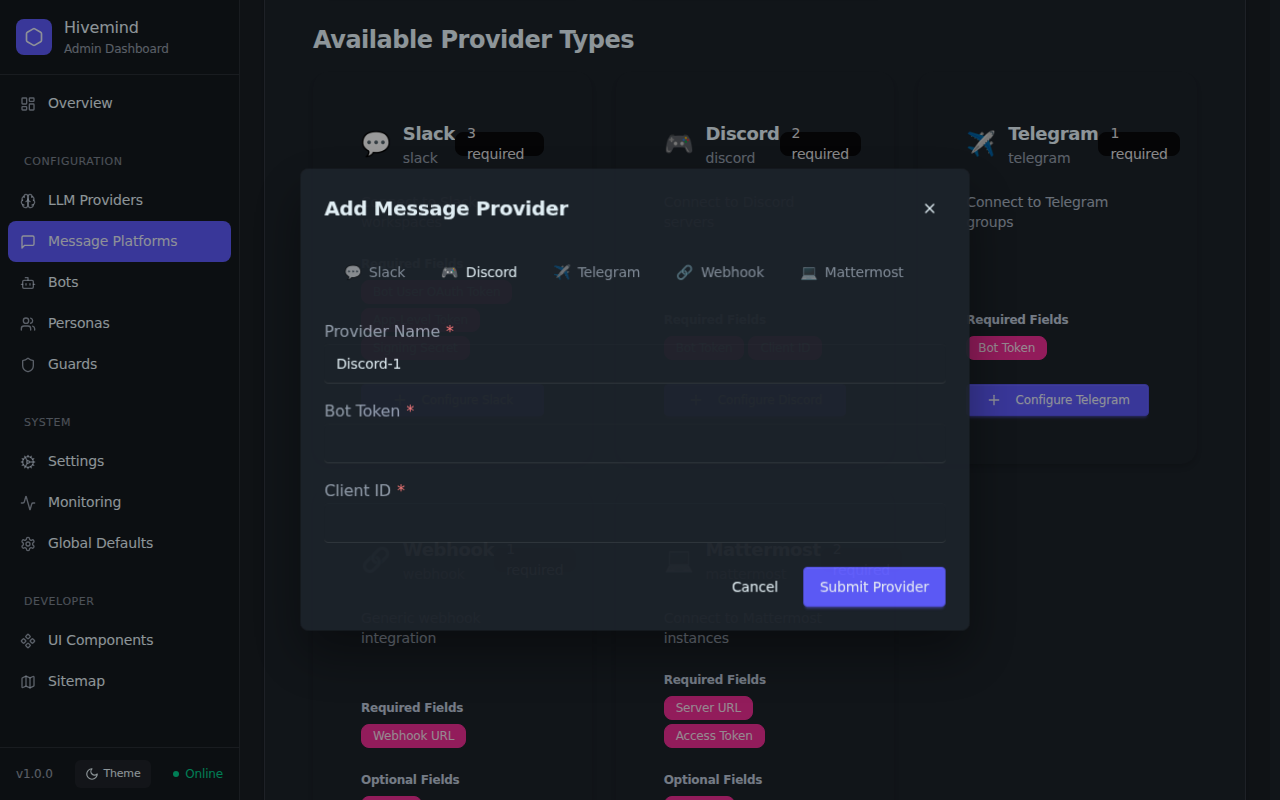
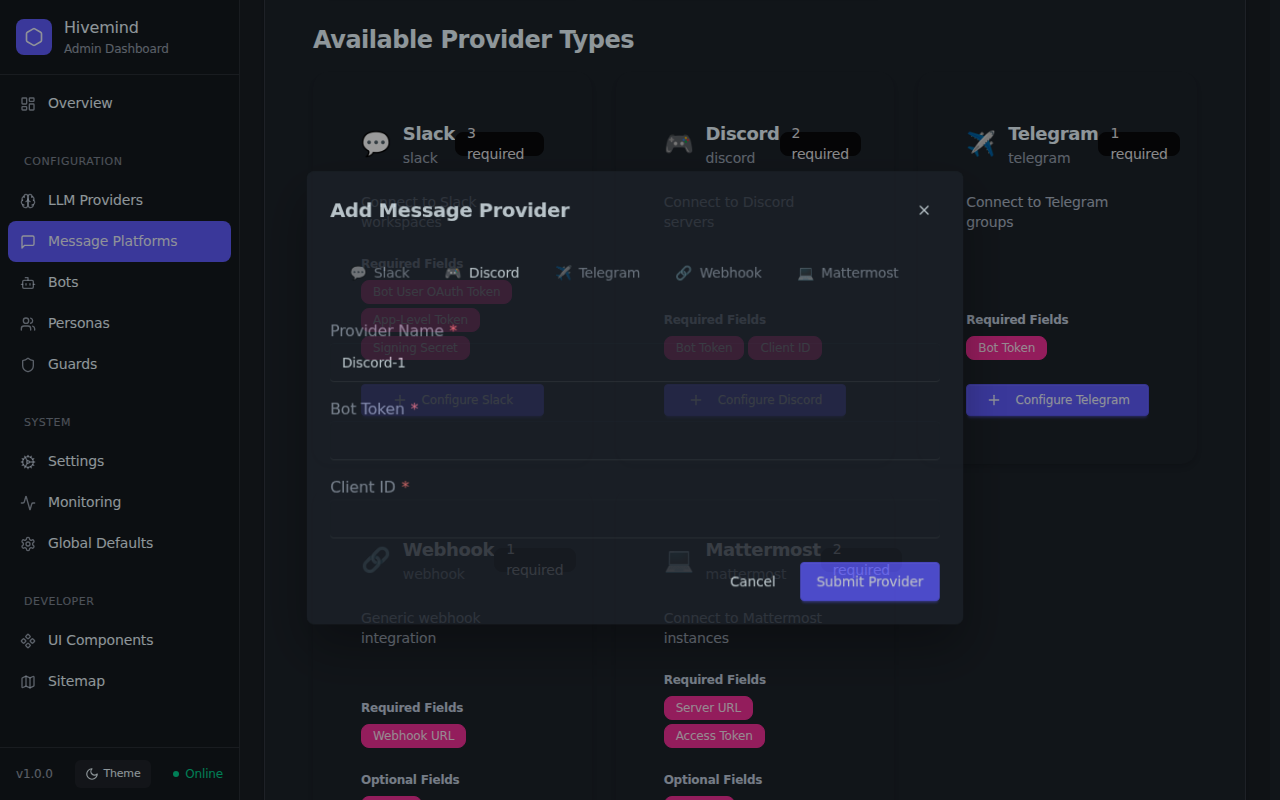
Refiner (Webhook Routes UX): Add missing webhook schema and fix provider modal layout (#916)
* fix(webhook): Fix tab overlapping in provider config modal and add Webhook provider schema

* feat(webhook): add HTTPS URL validation with improved error messages

- Add pattern validation to webhook URL field (must start with https://)
- Improve description to indicate HTTPS requirement
- Add specific error message for URL validation failures

---------

diff --git a/src/client/src/provider-configs/index.ts b/src/client/src/provider-configs/index.ts
@@ -9,6 +9,7 @@ export * from './schemas/telegram';
 export * from './schemas/mcp';
 export * from './schemas/flowise';
 export * from './schemas/openwebui';
+export * from './schemas/webhook';
 
 // Registry of all available provider schemas
 import type { ProviderConfigSchema } from './types';
@@ -21,12 +22,14 @@ import { telegramProviderSchema } from './schemas/telegram';
 import { mcpProviderSchema } from './schemas/mcp';
 import { flowiseProviderSchema } from './schemas/flowise';
 import { openWebUIProviderSchema } from './schemas/openwebui';
+import { webhookProviderSchema } from './schemas/webhook';
 
 export const PROVIDER_SCHEMAS: Record<string, ProviderConfigSchema> = {
   // Message providers
   discord: discordProviderSchema,
   slack: slackProviderSchema,
   telegram: telegramProviderSchema,
+  webhook: webhookProviderSchema,
 
   // LLM providers
   openai: openAIProviderSchema,

diff --git a/src/client/src/provider-configs/schemas/webhook.ts b/src/client/src/provider-configs/schemas/webhook.ts
@@ -1,0 +1,32 @@
+import type { ProviderConfigSchema } from '../types';
+
+export const webhookProviderSchema: ProviderConfigSchema = {
+  type: 'message',
+  providerType: 'webhook',
+  displayName: 'Webhook',
+  description: 'Generic webhook integration',
+  icon: '🔗',
+  color: '#808080',
+  defaultConfig: {},
+  fields: [
+    {
+      name: 'url',
+      label: 'Webhook URL',
+      type: 'url',
+      required: true,
+      description: 'Webhook URL for receiving updates (must start with https:// for security)',
+      placeholder: 'https://your-domain.com/api/webhook',
+      validation: {
+        pattern: '^https://[^\\s]+',
+      },
+    },
+    {
+      name: 'secret',
+      label: 'Secret',
+      type: 'password',
+      required: false,
+      description: 'Secret for authenticating webhook requests',
+      placeholder: 'Your webhook secret',
+    }
+  ],
+};

diff --git a/src/client/src/components/ProviderConfiguration/ProviderConfigModal.tsx b/src/client/src/components/ProviderConfiguration/ProviderConfigModal.tsx
@@ -124,6 +124,10 @@ const ProviderConfigModal: React.FC<ProviderConfigModalProps> = ({
       if (pattern && typeof value === 'string') {
         const regex = new RegExp(pattern);
         if (!regex.test(value)) {
+          // Provide specific error messages for common field types
+          if (field.type === 'url') {
+            return `${field.label} must be a valid HTTPS URL`;
+          }
           return `${field.label} format is invalid`;
         }
       }
@@ -353,7 +357,7 @@ const ProviderConfigModal: React.FC<ProviderConfigModalProps> = ({
         </div>
 
         {/* Provider Type Tabs */}
-        <div className="tabs tabs-boxed mb-6">
+        <div className="tabs tabs-boxed mb-6 flex-wrap gap-1">
           {providerTypes.map(type => {
             const typeConfig = (configs as any)[type];
             return (
